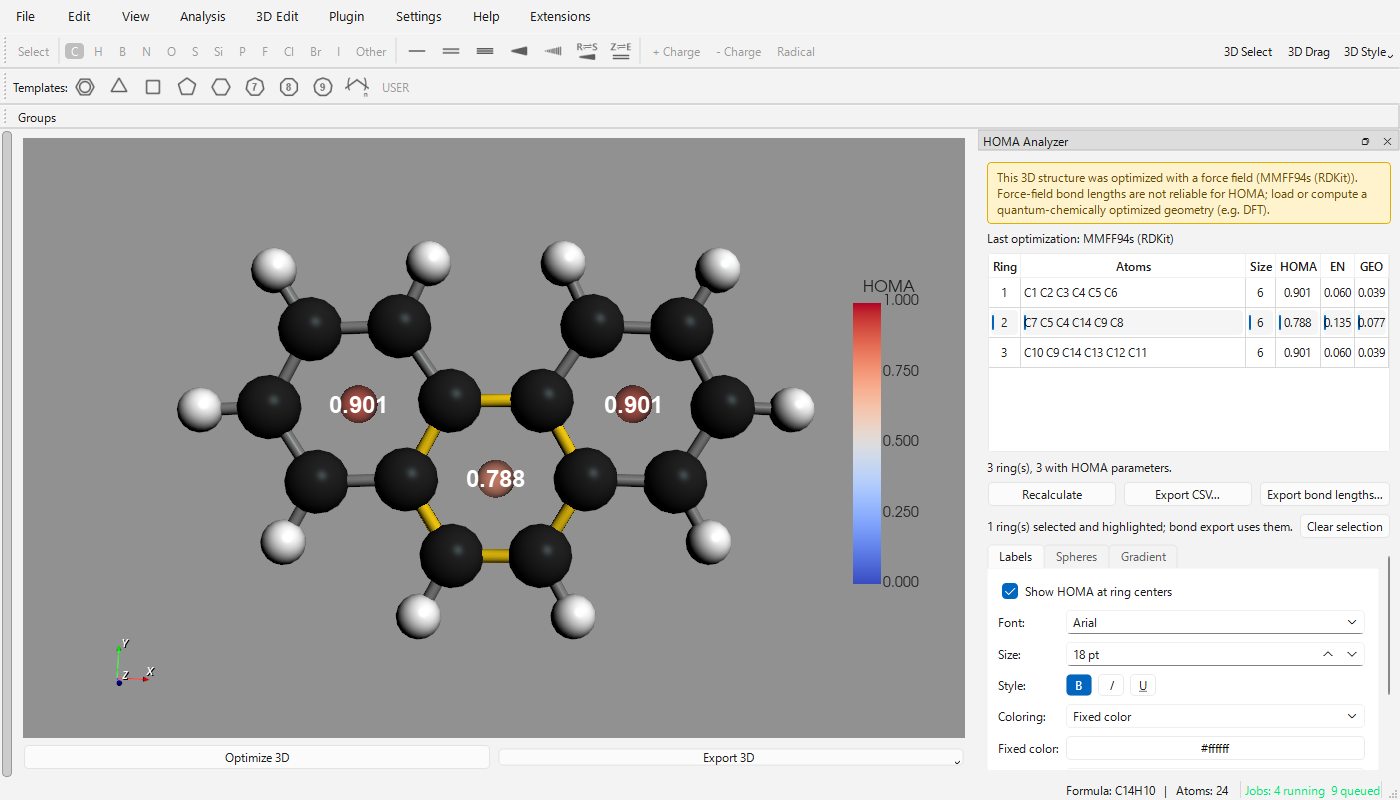
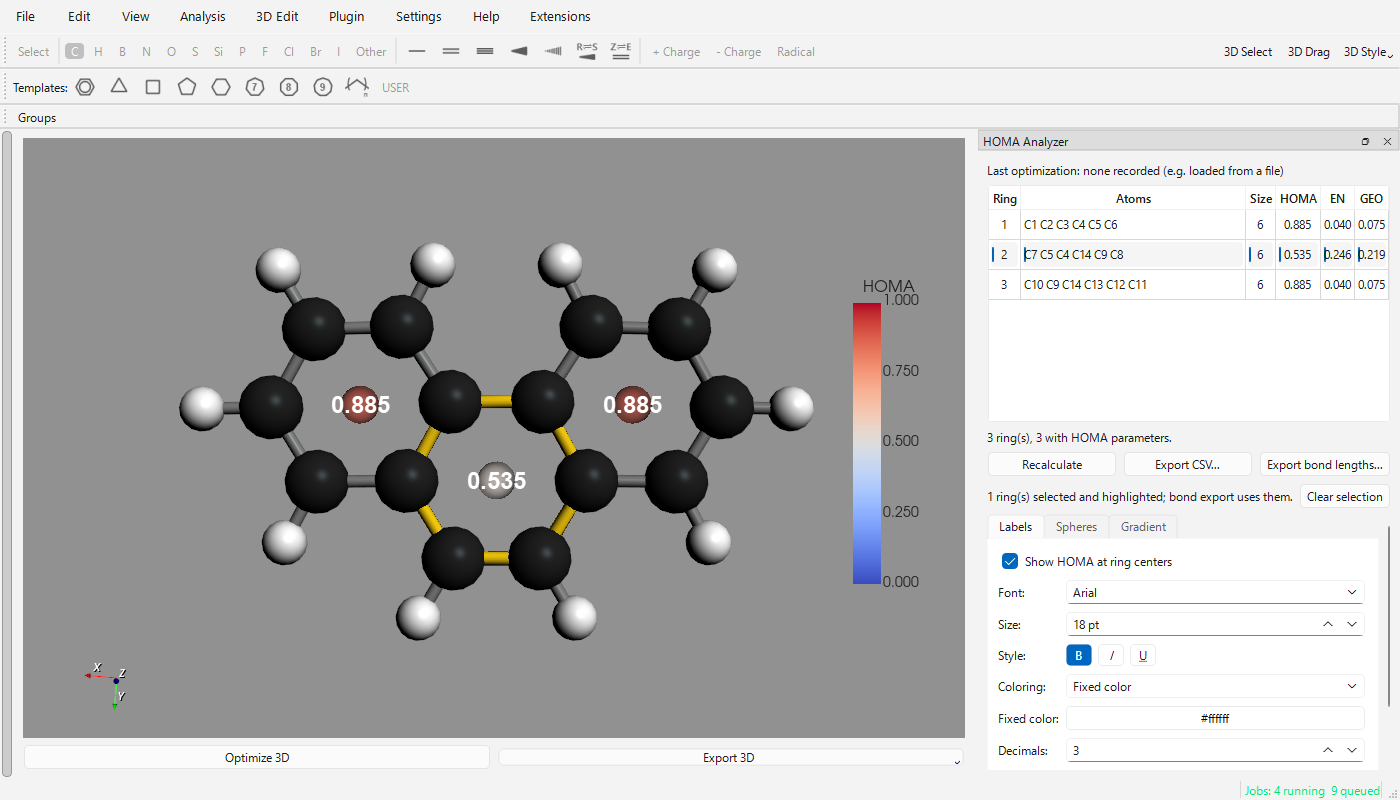
Ignore an optimization label left over from a previous structure; DFT test data; 0.1.1
MoleditPy keeps last_successful_optimization_method when a new structure
is loaded, so a file opened after an MMFF optimization still showed the
force-field warning. The host's own RDKit optimizations tag the molecule
they produce, so an '(RDKit)' label on an untagged molecule is stale;
any other label is tied to the molecule that was current when it
appeared and dropped once that molecule is replaced.

Add naphthalene and phenanthrene optimized with ORCA 6.1.1 at r2SCAN-3c
as test data (naphthalene 0.812 against the published 0.802; the
phenanthrene middle ring 0.535, where MMFF94s gives 0.788), test the
Open Babel and PMEFF labels as those plugins build them, and retake the
README screenshot on the DFT phenanthrene.

diff --git a/homa_analyzer/panel.py b/homa_analyzer/panel.py
@@ -38,6 +38,7 @@ from .settings import COLORMAPS
 
 logger = logging.getLogger(__name__)
 
+HOST_OPT_TAG = "_pme_optimization_method"
 LABEL_ACTOR = "homa_analyzer_label"
 SPHERE_ACTOR = "homa_analyzer_spheres"
 HIGHLIGHT_ACTOR = "homa_analyzer_highlight"
@@ -58,6 +59,42 @@ def last_optimization_method(main_window):
     return getattr(compute, "last_successful_optimization_method", None)
 
 
+def _has_host_tag(mol) -> bool:
+    try:
+        return bool(mol.HasProp(HOST_OPT_TAG))
+    except (AttributeError, RuntimeError, TypeError):  # not an RDKit molecule
+        return False
+
+
+class MethodTracker:
+    """Decides whether the host's last optimization label belongs to this molecule.
+
+    MoleditPy keeps ``last_successful_optimization_method`` when a new structure
+    is loaded, so the label of the previous molecule's optimization carries
+    over.  The host's own RDKit optimizations tag the molecule they produce, so
+    an "(RDKit)" label on an untagged molecule is stale.  Any other label is
+    tied to the molecule that was current when it changed, and dropped once
+    that molecule is replaced (optimizer plugins and the constrained optimizer
+    edit the current molecule in place).
+    """
+
+    def __init__(self):
+        self._label = None
+        self._mol_id = None
+
+    def effective(self, mol, label):
+        if not label or mol is None:
+            return label if mol is not None else None
+        if _has_host_tag(mol):
+            return label
+        if label.endswith("(RDKit)"):
+            return None
+        if label != self._label:
+            self._label, self._mol_id = label, id(mol)
+            return label
+        return label if id(mol) == self._mol_id else None
+
+
 def format_value(value, decimals: int) -> str:
     return "n/a" if value is None else f"{value:.{decimals}f}"
 
@@ -73,6 +110,7 @@ class HomaPanel(QWidget):
         self.results = []
         self.method = None
         self._signature = None
+        self._tracker = MethodTracker()
         self._actor_names = []
         self._legend_title = None
 
@@ -413,8 +451,9 @@ class HomaPanel(QWidget):
     def refresh(self) -> None:
         """Recompute HOMA for the current molecule and redraw table and overlay."""
         mol = self.context.current_mol if self.context is not None else None
-        self.method = last_optimization_method(self._main_window())
-        self._signature = (id(mol), self.method)
+        raw = last_optimization_method(self._main_window())
+        self.method = self._tracker.effective(mol, raw)
+        self._signature = (id(mol), raw)
         self.results = []
         try:
             self.results = analyze_mol(mol)

diff --git a/tests/test_panel.py b/tests/test_panel.py
@@ -94,6 +94,8 @@ def make_panel(qapp):
     made = []
 
     def make(mol=None, method=None, **overrides):
+        if mol is not None and method and method.endswith("(RDKit)"):
+            mol.SetProp(panel_mod.HOST_OPT_TAG, "MMFF_RDKIT")  # as the host does
         ctx = FakeContext(mol, method)
         settings = default_settings()
         settings.update(overrides)
@@ -345,7 +347,7 @@ def test_open_panel_replaces_a_deleted_dock(qapp):
 
 
 def test_metadata():
-    assert homa_analyzer.PLUGIN_VERSION == "0.1.0"
+    assert homa_analyzer.PLUGIN_VERSION == "0.1.1"
     assert homa_analyzer.PLUGIN_CATEGORY == "Analysis"
     assert "numpy" in homa_analyzer.PLUGIN_DEPENDENCIES
 
@@ -412,3 +414,43 @@ def test_unparameterized_ring_can_be_highlighted(make_panel):
     ctx.plotter.clear()
     p._poll()
     assert panel_mod.HIGHLIGHT_ACTOR in ctx.plotter.actors
+
+
+def test_stale_rdkit_label_on_a_loaded_structure(make_panel):
+    """The host keeps the previous molecule's label when a file is loaded."""
+    p, ctx = make_panel(_benzene(), "MMFF94s (RDKit)")
+    p.show()
+    p.refresh()
+    assert not p.warning_label.isHidden()
+    ctx.current_mol = _benzene()  # loaded from a file: no host tag, same label
+    p._poll()
+    assert p.warning_label.isHidden()
+    assert "none recorded" in p.method_label.text()
+
+
+def test_plugin_label_is_dropped_when_the_structure_is_replaced(make_panel):
+    mol = _benzene()
+    p, ctx = make_panel(mol)
+    p.show()
+    p.refresh()
+    ctx.mw.compute_manager.last_successful_optimization_method = "GAFF (Open Babel)"
+    p._poll()  # the plugin optimized the current molecule in place
+    assert "GAFF" in p.warning_label.text() and not p.warning_label.isHidden()
+    ctx.current_mol = _benzene()  # then a file was loaded
+    p._poll()
+    assert p.warning_label.isHidden()
+
+
+def test_tracker_rules():
+    t = panel_mod.MethodTracker()
+    tagged, plain, other = _benzene(), _benzene(), _benzene()
+    tagged.SetProp(panel_mod.HOST_OPT_TAG, "UFF_RDKIT")
+    assert t.effective(tagged, "UFF (RDKit)") == "UFF (RDKit)"
+    assert t.effective(plain, "UFF (RDKit)") is None
+    assert t.effective(plain, None) is None
+    assert t.effective(None, "PMEFF (v1)") is None
+    assert t.effective(plain, "PMEFF (v1)") == "PMEFF (v1)"
+    assert t.effective(plain, "PMEFF (v1)") == "PMEFF (v1)"
+    assert t.effective(other, "PMEFF (v1)") is None
+    assert t.effective(other, "GFN2-xTB") == "GFN2-xTB"
+    assert t.effective(object(), "x (RDKit)") is None  # not an RDKit molecule

diff --git a/tests/test_homa.py b/tests/test_homa.py
@@ -206,3 +206,48 @@ def test_bond_rows_leave_unparameterized_bonds_blank():
     rows = homa.bond_rows([ring])
     assert rows[1][4] == "C-Si" and rows[1][6:] == ["", "", ""]
     assert rows[3][4] == "C-C" and rows[3][7] == "257.7"
+
+
+def _xyz_mol(name):
+    from pathlib import Path
+
+    from rdkit import Chem
+    from rdkit.Chem import rdDetermineBonds
+
+    mol = Chem.MolFromXYZFile(str(Path(__file__).parent / "data" / name))
+    rdDetermineBonds.DetermineBonds(mol, charge=0)
+    return mol
+
+
+def test_r2scan3c_naphthalene_matches_the_literature():
+    """r2SCAN-3c naphthalene; Krygowski & Szatylowicz, ChemTexts 2015, Table 4
+    give HOMA 0.802 (EN 0.077, GEO 0.121)."""
+    pytest.importorskip("rdkit")
+    rings = homa.analyze_mol(_xyz_mol("naphthalene_r2scan3c.xyz"))
+    assert len(rings) == 2
+    for ring in rings:
+        assert round(ring.homa, 3) == 0.812
+        assert ring.homa == pytest.approx(0.802, abs=0.02)
+        assert ring.homa == pytest.approx(1 - ring.en - ring.geo)
+
+
+def test_r2scan3c_phenanthrene_middle_ring_is_least_aromatic():
+    pytest.importorskip("rdkit")
+    rings = homa.analyze_mol(_xyz_mol("phenanthrene_r2scan3c.xyz"))
+    values = sorted(round(r.homa, 3) for r in rings)
+    assert values == [0.535, 0.885, 0.885]
+    middle = min(rings, key=lambda r: r.homa)
+    assert middle.geo > 0.2 and middle.en > 0.2  # both alternation and elongation
+
+
+# Labels exactly as the optimizer plugins register them:
+# moleditpy_openbabel_optimizer: f"{method} (Open Babel)" for its FORCE_FIELDS,
+# moleditpy_pmeff-plugin: f"PMEFF (v{PLUGIN_VERSION})".
+@pytest.mark.parametrize(
+    "label",
+    [f"{ff} (Open Babel)" for ff in ("MMFF94s", "MMFF94", "UFF", "GAFF", "Ghemical")]
+    + ["PMEFF (v0.3.2)", "Constrained_MMFF94s", "Constrained_UFF"],
+)
+def test_optimizer_plugin_labels_warn(label):
+    warning = homa.geometry_warning(label)
+    assert warning is not None and label in warning

diff --git a/homa_analyzer/__init__.py b/homa_analyzer/__init__.py
@@ -18,7 +18,7 @@ import logging
 logger = logging.getLogger(__name__)
 
 PLUGIN_NAME = "HOMA Analyzer"
-PLUGIN_VERSION = "0.1.0"
+PLUGIN_VERSION = "0.1.1"
 PLUGIN_AUTHOR = "HiroYokoyama"
 PLUGIN_DESCRIPTION = (
     "Compute the HOMA aromaticity index of each ring in the 3D structure, "

diff --git a/README.md b/README.md
@@ -14,8 +14,8 @@ in a panel on the right, and exports the ring list and every ring bond length as
 
 ![HOMA Analyzer: phenanthrene with HOMA labels, gradient spheres, legend and the middle ring highlighted](img/homa_analyzer.png)
 
-*Phenanthrene after MMFF94s optimization, so the force-field warning is shown. The middle ring is
-selected in the table and highlighted in 3D.*
+*Phenanthrene optimized with r2SCAN-3c in ORCA and loaded from the `.xyz` file, with gradient
+spheres switched on. The middle ring is selected in the table and highlighted in 3D.*
 
 ## Usage
 
@@ -93,8 +93,18 @@ HOMA is computed from bond lengths, so it is only as good as the geometry. The p
 method MoleditPy recorded for the last successful optimization of the structure, and shows a
 warning when that method is a force field (MMFF94, MMFF94s, UFF, GAFF, Ghemical, PMEFF or a
 constrained force-field optimization) or when the structure was embedded without optimization.
-Force fields reproduce conjugated bond lengths only roughly, which shifts HOMA noticeably. No
+Force fields reproduce conjugated bond lengths only roughly, which shifts HOMA noticeably. For
+phenanthrene, r2SCAN-3c gives the middle ring HOMA 0.535; MMFF94s gives 0.788 and UFF 0.803. No
 warning is shown for structures loaded from a file, or optimized by a quantum-chemical plugin.
+
+The method is recognized by name: MMFF, UFF, GAFF, Ghemical, PMEFF and constrained optimizations,
+which covers MoleditPy's own force fields and the Open Babel Optimizer and PMEFF plugins. A force
+field added later by a plugin under another name is not recognized.
+
+MoleditPy keeps the last method when a new structure is loaded, so the panel checks that the method
+belongs to the structure on screen: MoleditPy's own optimizations tag the molecule they produce,
+and any other method is tied to the structure that was current when it ran. A structure loaded
+after an optimization therefore shows no warning.
 
 ## Method
 
@@ -141,6 +151,17 @@ against the literature and Crossref DOI records. The test suite reproduces the p
 for benzene with all C–C bonds at 1.397 Å: HOMA 0.979, EN 0.021, GEO 0.000 ([3], Table 4). It also
 checks a B3LYP/def2-SVP benzene geometry from an ORCA optimization (all C–C 1.3991 Å), which gives
 HOMA 0.968, EN 0.032 and GEO 0.000.
+
+The tests also include two geometries optimized for this plugin with ORCA 6.1.1 at r2SCAN-3c:
+
+| Molecule | Ring | HOMA | EN | GEO | Published [3], Table 4 |
+| :--- | :--- | ---: | ---: | ---: | :--- |
+| Naphthalene | each ring | 0.812 | 0.061 | 0.127 | 0.802 (EN 0.077, GEO 0.121) |
+| Phenanthrene | outer rings | 0.885 | 0.040 | 0.075 | |
+| Phenanthrene | middle ring | 0.535 | 0.246 | 0.219 | |
+
+The naphthalene value is within 0.01 of the published one. Phenanthrene shows the expected pattern:
+the outer rings are benzene-like and the middle ring is much less aromatic.
 
 ### References
 
